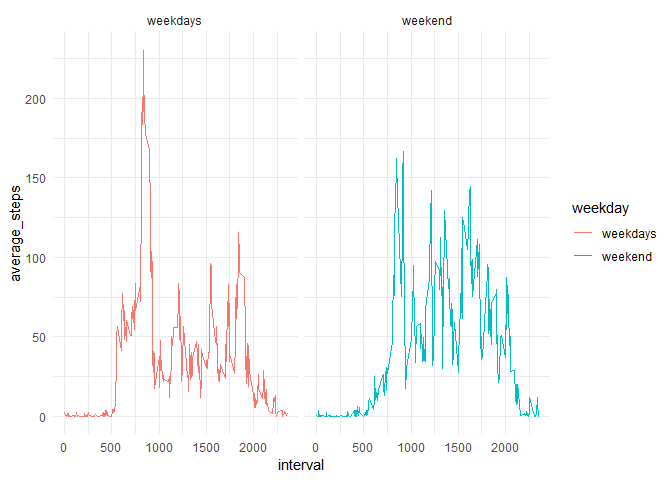
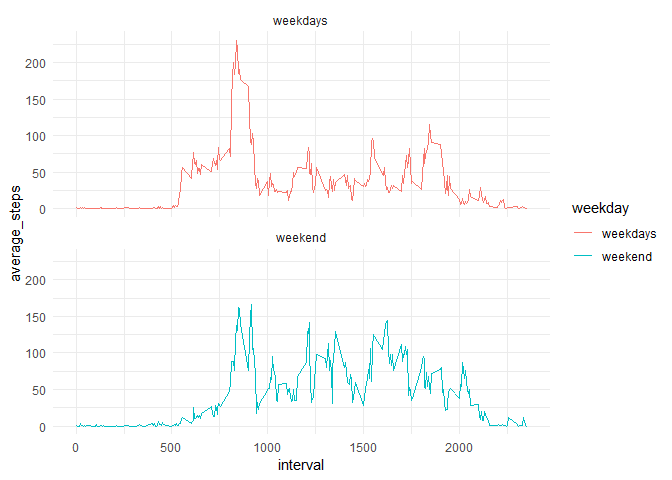
Fix chart 5

diff --git a/PA1_template.html b/PA1_template.html
@@ -268,10 +268,10 @@ summary(activity_removed_miss)</code></pre>
   summarize(average_steps = mean(steps))
 
 ggplot(new_df_total_steps_by_interval, aes(interval, colour = weekday )) +
-  facet_grid(. ~ weekday) +
   theme_minimal() +
+  facet_wrap(. ~ weekday, nrow = 2) +
   geom_line( aes(y= average_steps))</code></pre>
[2 lines of base64/hex data omitted]
 <p>Plot with time series combined</p>
 <pre class="r"><code>ggplot(new_df_total_steps_by_interval, aes(interval, colour = weekday )) +
 

diff --git a/PA1_template.md b/PA1_template.md
@@ -237,8 +237,8 @@ new_df_total_steps_by_interval <- activity_removed_miss %>%
   summarize(average_steps = mean(steps))
 
 ggplot(new_df_total_steps_by_interval, aes(interval, colour = weekday )) +
-  facet_grid(. ~ weekday) +
   theme_minimal() +
+  facet_wrap(. ~ weekday, nrow = 2) +
   geom_line( aes(y= average_steps))
 ```
 
